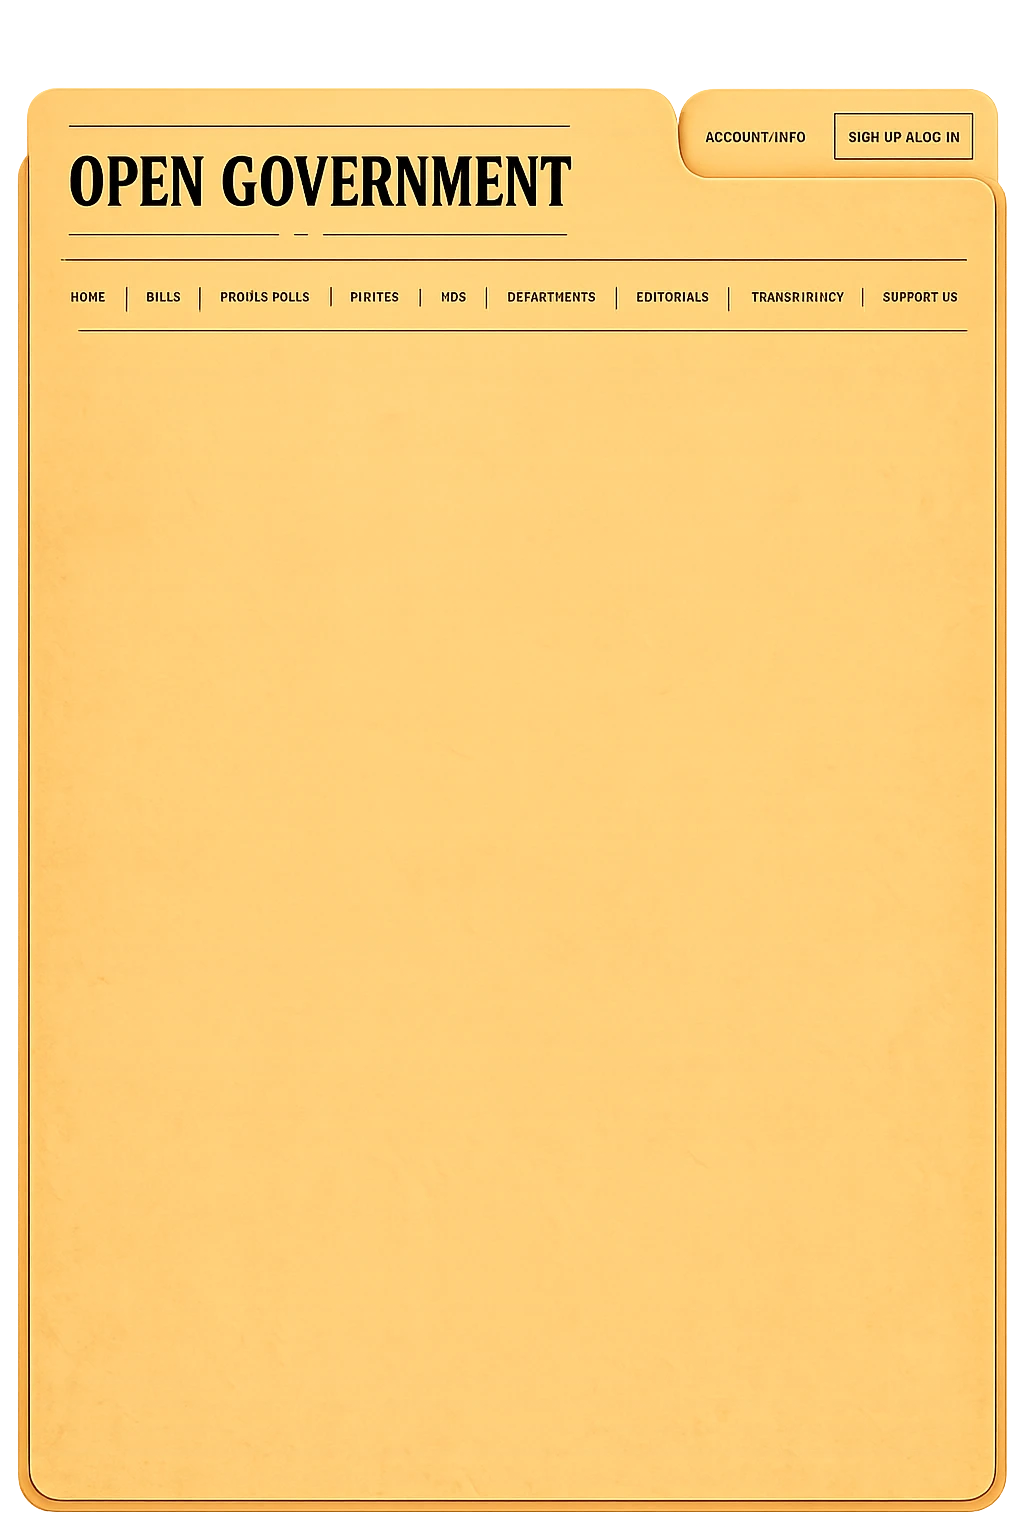
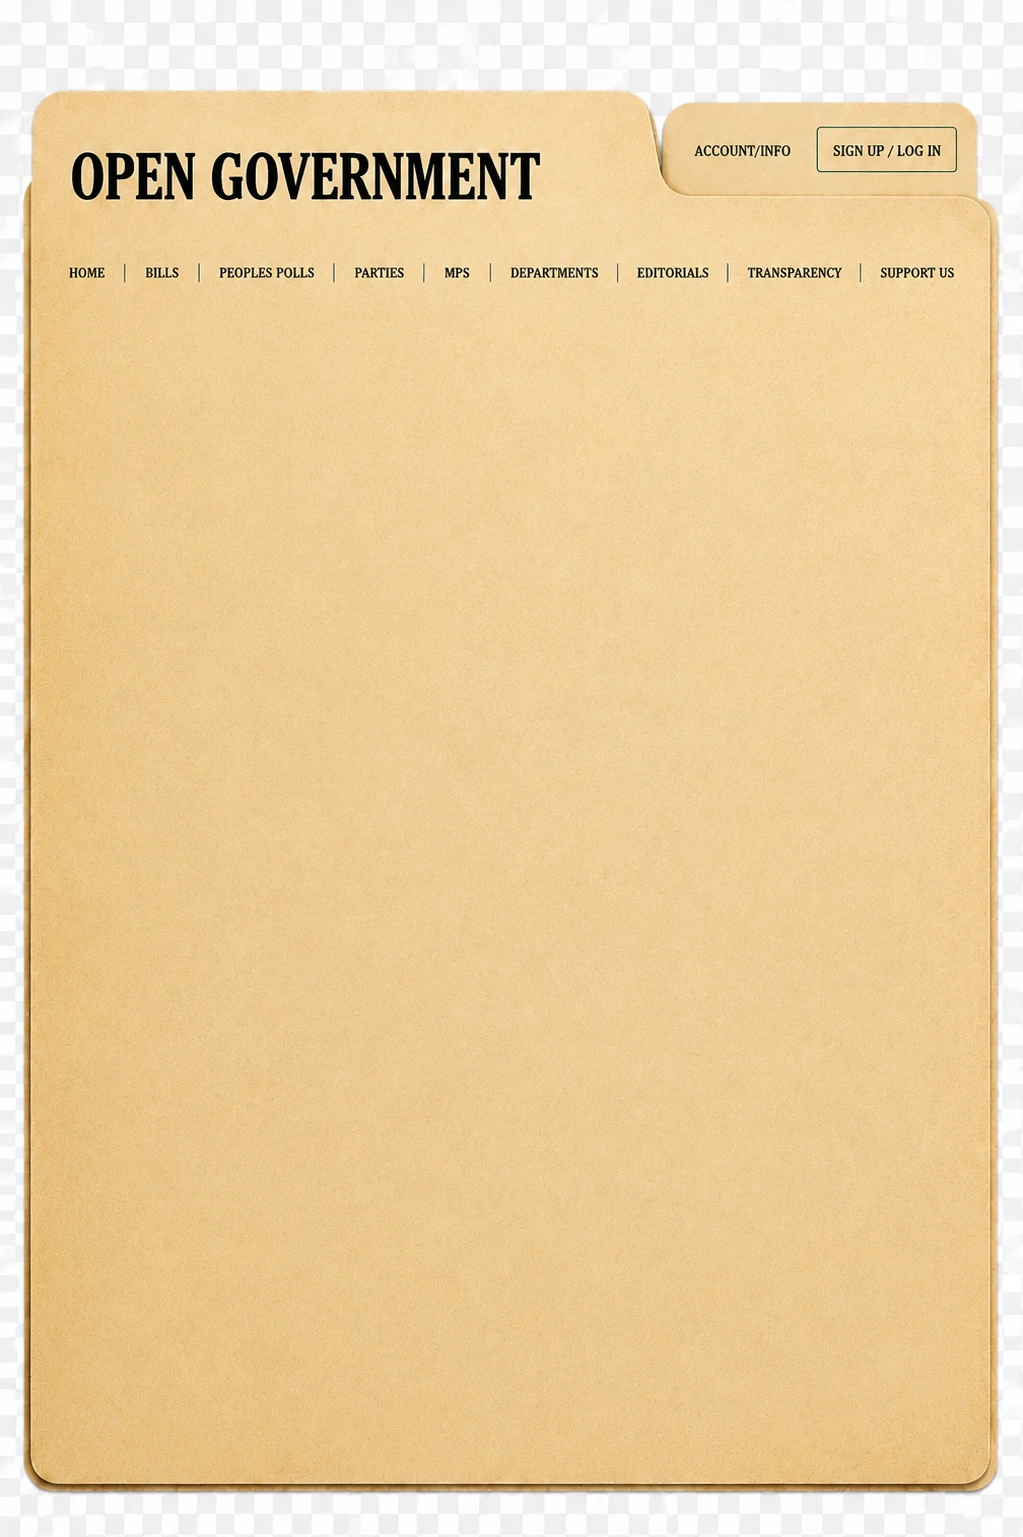
homepage-demo: switch to lando.png template, recalibrate hotspots + body
New cleaner OPEN GOVERNMENT artwork (lando.png, 1023x1537). Masthead/nav
now sit near the top (nav ~18%), so hotspots and the body inset (top 21%)
are recalibrated to the new layout.

diff --git a/app/homepage-demo/page.tsx b/app/homepage-demo/page.tsx
@@ -17,19 +17,19 @@ export const metadata: Metadata = {
 // to see the boxes and nudge them onto the artwork.
 type Hotspot = { href: string; label: string; left: number; top: number; width: number; height: number };
 const HOTSPOTS: Hotspot[] = [
-  { href: '/', label: 'Home: OPEN GOVERNMENT masthead', left: 3, top: 9, width: 43, height: 6 },
-  { href: '/login', label: 'Account / Info', left: 51.5, top: 9, width: 9, height: 2.2 },
-  { href: '/login', label: 'Sign up / Log in', left: 61.5, top: 8.7, width: 13, height: 2.6 },
-  // Nav row (aligned to the painted labels)
-  { href: '/', label: 'Home', left: 6.5, top: 20.4, width: 4, height: 2.1 },
-  { href: '/bills', label: 'Bills', left: 11.5, top: 20.4, width: 4, height: 2.1 },
-  { href: '/polls', label: 'Peoples Polls', left: 16, top: 20.4, width: 8.5, height: 2.1 },
-  { href: '/parties', label: 'Parties', left: 25.5, top: 20.4, width: 6, height: 2.1 },
-  { href: '/mps', label: 'MPs', left: 32, top: 20.4, width: 4, height: 2.1 },
-  { href: '/departments', label: 'Departments', left: 37, top: 20.4, width: 9, height: 2.1 },
-  { href: '/editorials', label: 'Editorials', left: 46.5, top: 20.4, width: 7.5, height: 2.1 },
-  { href: '/transparency', label: 'Transparency', left: 54.5, top: 20.4, width: 9, height: 2.1 },
-  { href: '/support', label: 'Support Us', left: 64, top: 20.4, width: 7.5, height: 2.1 },
+  { href: '/', label: 'Home: OPEN GOVERNMENT masthead', left: 2.5, top: 9, width: 38, height: 5 },
+  { href: '/login', label: 'Account / Info', left: 56, top: 9.5, width: 10, height: 2.2 },
+  { href: '/login', label: 'Sign up / Log in', left: 66.5, top: 9.3, width: 13, height: 2.6 },
+  // Nav row (~18.5% down, aligned to the painted labels)
+  { href: '/', label: 'Home', left: 2.5, top: 17.6, width: 4.5, height: 2.2 },
+  { href: '/bills', label: 'Bills', left: 7, top: 17.6, width: 4.5, height: 2.2 },
+  { href: '/polls', label: 'Peoples Polls', left: 11.5, top: 17.6, width: 8, height: 2.2 },
+  { href: '/parties', label: 'Parties', left: 19.2, top: 17.6, width: 5.5, height: 2.2 },
+  { href: '/mps', label: 'MPs', left: 24.3, top: 17.6, width: 3.8, height: 2.2 },
+  { href: '/departments', label: 'Departments', left: 28, top: 17.6, width: 8, height: 2.2 },
+  { href: '/editorials', label: 'Editorials', left: 36.2, top: 17.6, width: 6.8, height: 2.2 },
+  { href: '/transparency', label: 'Transparency', left: 43, top: 17.6, width: 8, height: 2.2 },
+  { href: '/support', label: 'Support Us', left: 51.3, top: 17.6, width: 6.2, height: 2.2 },
 ];
 
 export default async function HomepageDemo({

diff --git a/app/homepage-demo/demo.css b/app/homepage-demo/demo.css
@@ -18,7 +18,7 @@
 .demo-shell {
   position: relative;
   width: min(100%, 980px);
-  aspect-ratio: 1024 / 1536;
+  aspect-ratio: 1023 / 1537;
   background-image: url('/landing-template.webp');
   background-size: contain;
   background-repeat: no-repeat;
@@ -52,7 +52,7 @@
 /* ---- Content layer in the blank folder body ---- */
 .demo-body {
   position: absolute;
-  top: 23%;
+  top: 21%;
   left: 5%;
   right: 5%;
   bottom: 5%;
